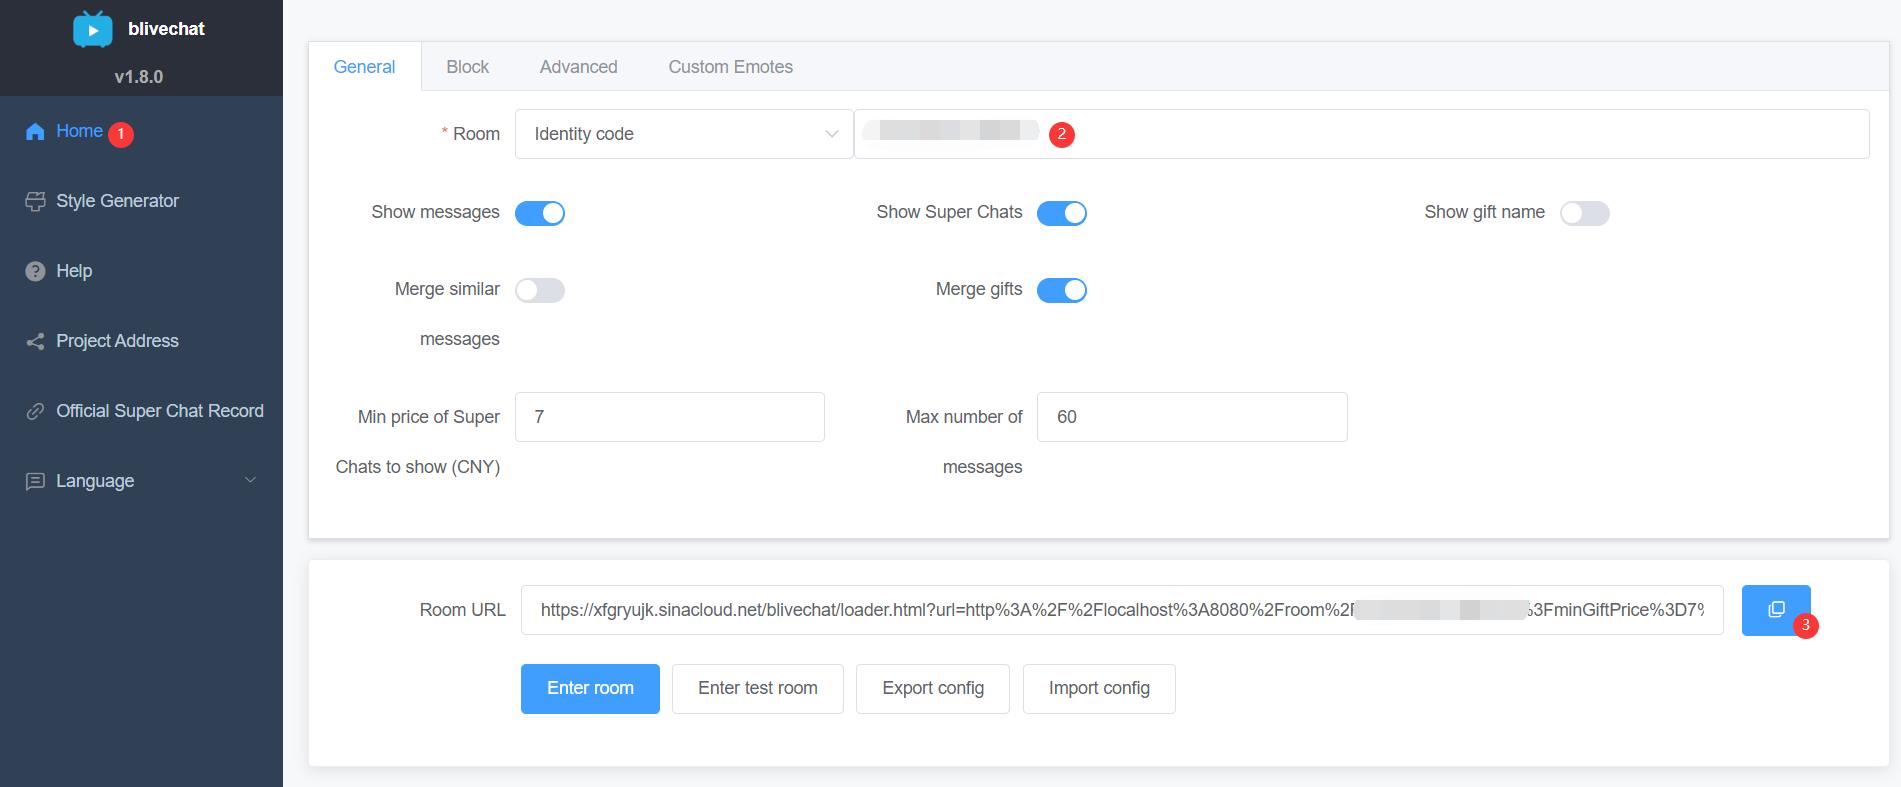
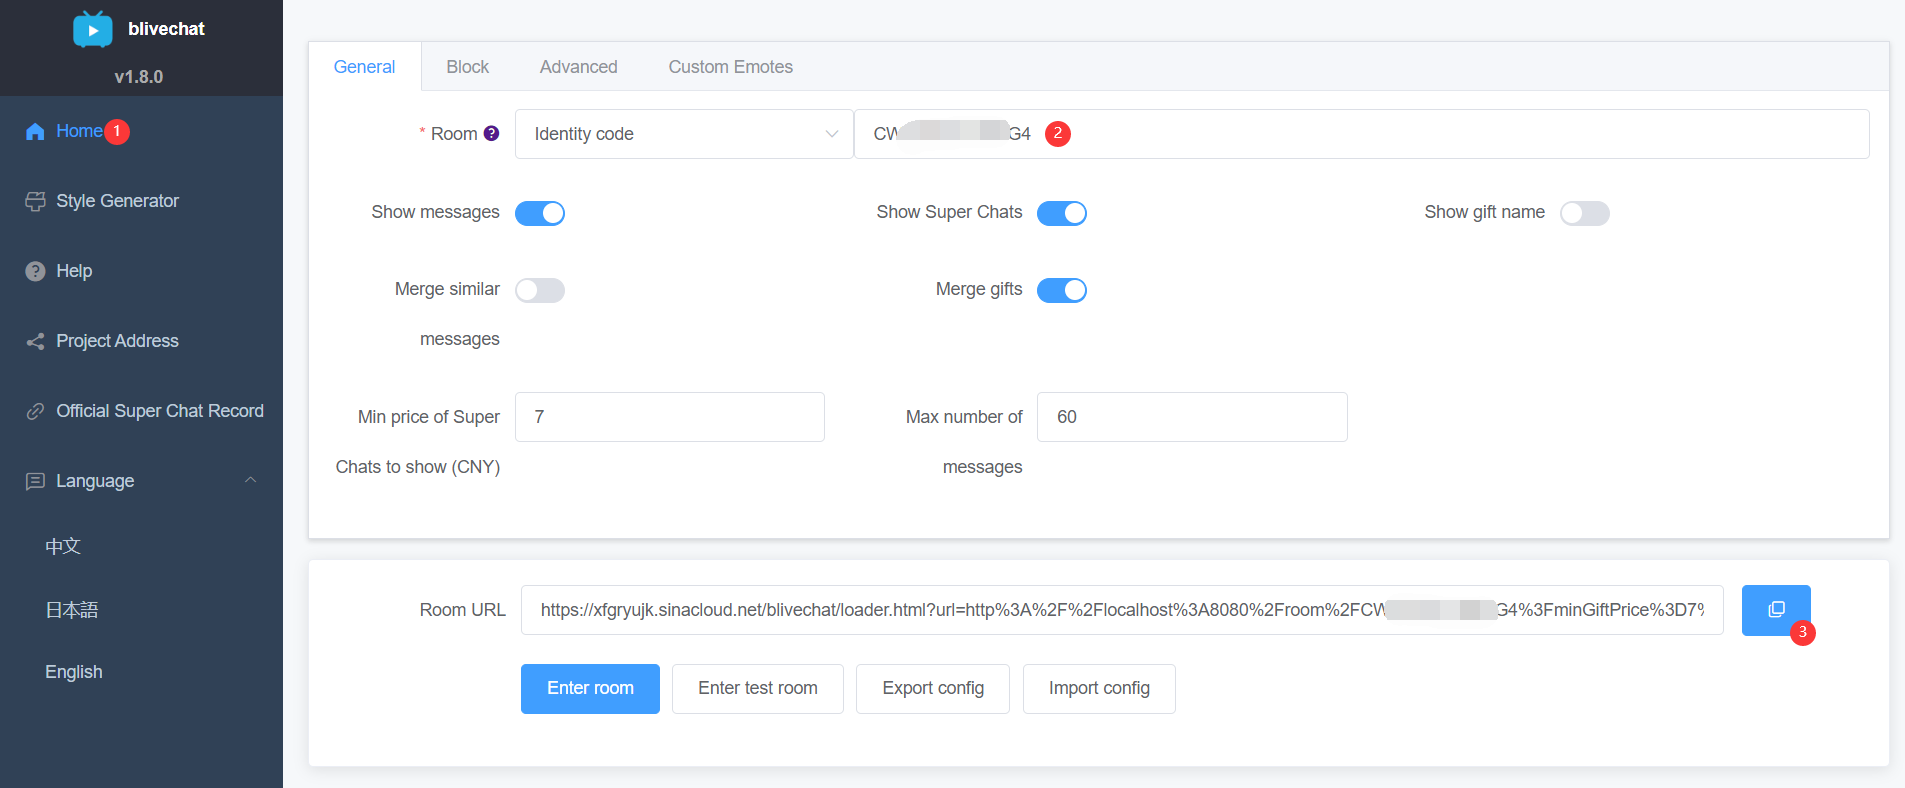
完善前端获取身份码的教程，做成弱智保姆软件

diff --git a/frontend/src/views/Home.vue b/frontend/src/views/Home.vue
@@ -4,7 +4,32 @@
       <el-form :model="form" ref="form" label-width="150px">
         <el-tabs type="border-card">
           <el-tab-pane :label="$t('home.general')">
-            <el-form-item :label="$t('home.room')" required :prop="form.roomKeyType === 1 ? 'roomId' : 'authCode'">
+            <el-form-item v-if="form.roomKeyType === 1"
+              :label="$t('home.room')" prop="roomId" :rules="[
+                { required: true, message: $t('home.roomIdEmpty') },
+                { type: 'integer', min: 1, message: $t('home.roomIdInteger') }
+              ]"
+            >
+              <el-row>
+                <el-col :span="6">
+                  <el-select v-model="form.roomKeyType" style="width: 100%">
+                    <el-option :label="$t('home.authCode')" :value="2"></el-option>
+                    <el-option :label="$t('home.roomId')" :value="1"></el-option>
+                  </el-select>
+                </el-col>
+                <el-col :span="18">
+                  <el-input v-model.number="form.roomId" type="number" min="1"></el-input>
+                </el-col>
+              </el-row>
+              <el-row style="color: red">{{ $t('home.useAuthCodeWarning') }}</el-row>
+            </el-form-item>
+
+            <el-form-item v-else-if="form.roomKeyType === 2"
+              :label="$t('home.room')" prop="authCode" :rules="[
+                { required: true, message: $t('home.authCodeEmpty') },
+                { pattern: AUTH_CODE_REG, message: $t('home.authCodeFormatError') }
+              ]"
+            >
               <template slot="label">{{ $t('home.room') }}
                 <router-link :to="{ name: 'help' }">
                   <i class="el-icon-question"></i>
@@ -18,21 +43,19 @@
                   </el-select>
                 </el-col>
                 <el-col :span="18">
-                  <el-input v-if="form.roomKeyType === 1"
-                    v-model.number="form.roomId" type="number" min="1" :rules="[
-                      {required: true, message: $t('home.roomIdEmpty'), trigger: 'blur'},
-                      {type: 'integer', min: 1, message: $t('home.roomIdInteger'), trigger: 'blur'}
-                    ]"
-                  ></el-input>
-                  <el-input v-else
-                    v-model.number="form.authCode" :rules="[
-                      {required: true, message: $t('home.authCodeEmpty'), trigger: 'blur'}
-                    ]"
-                  ></el-input>
+                  <el-tooltip placement="top-start">
+                    <div slot="content">
+                      <!-- 不知道为什么router-link获取不到$router，还是用el-link了，不过会有一次丑陋的刷新 -->
+                      <el-link
+                        type="primary" :href="$router.resolve({ name: 'help' }).href"
+                      >{{ $t('home.howToGetAuthCode') }}</el-link>
+                    </div>
+                    <el-input v-model.number="form.authCode"></el-input>
+                  </el-tooltip>
                 </el-col>
               </el-row>
-              <el-row v-if="form.roomKeyType === 1" style="color: red">{{ $t('home.useAuthCodeWarning') }}</el-row>
             </el-form-item>
+
             <el-row :gutter="20">
               <el-col :xs="24" :sm="8">
                 <el-form-item :label="$t('home.showDanmaku')">
@@ -198,6 +221,8 @@ export default {
   name: 'Home',
   data() {
     return {
+      AUTH_CODE_REG: /^[0-9A-Z]{12,14}$/,
+
       serverConfig: {
         enableTranslate: true,
         enableUploadFile: true,
@@ -294,7 +319,7 @@ export default {
       window.open(this.getRoomUrl(true), 'test room', 'menubar=0,location=0,scrollbars=0,toolbar=0,width=600,height=600')
     },
     getRoomUrl(isTestRoom) {
-      if (!isTestRoom && !this.roomKeyValue) {
+      if (!isTestRoom && !this.validateForm()) {
         return ''
       }
 
@@ -313,6 +338,15 @@ export default {
         resolved = this.$router.resolve({ name: 'room', params: { roomKeyValue: this.roomKeyValue }, query })
       }
       return `${window.location.protocol}//${window.location.host}${resolved.href}`
+    },
+    // 因为要用在计算属性里，所以不能用this.$refs.form.validate
+    validateForm() {
+      if (this.form.roomKeyType === 1) {
+        return this.roomKeyValue > 0
+      } else if (this.form.roomKeyType === 2) {
+        return this.AUTH_CODE_REG.test(this.roomKeyValue)
+      }
+      return true
     },
     copyUrl() {
       this.$refs.roomUrlInput.select()

diff --git a/frontend/src/lang/ja.js b/frontend/src/lang/ja.js
@@ -10,12 +10,14 @@ export default {
     roomIdEmpty: 'ルームのIDを空白にすることはできません',
     roomIdInteger: 'ルームは正の整数でなければなりません',
     authCodeEmpty: 'アイデンティティコードを空白にすることはできません',
+    authCodeFormatError: 'アイデンティティコードの形式エラー',
     useAuthCodeWarning: 'アイデンティティコードを優先的に使用してください',
 
     general: '常規',
     room: 'ルーム',
     roomId: 'ルームID',
     authCode: 'アイデンティティコード',
+    howToGetAuthCode: 'アイデンティティコードの取得方法',
     showDanmaku: 'コメントを表示する',
     showGift: 'スーパーチャットと新メンバーを表示する',
     showGiftName: 'ギフト名を表示する',
@@ -134,7 +136,8 @@ export default {
   },
   help: {
     help: 'ヘルプ',
-    p1: '1. ビリビリの生放送を始めるのウェブからアイデンティティコード（身份码）をこぴーする',
+    p1_1: '1. このウェブページからアイデンティティコード（身份码）をコピーして：',
+    p1_2: '。注意：アイデンティティコードは漏洩していない限り、更新しないでください。アイデンティティコードを更新すると、古いコードは無効になります',
     p2: '2. ホームページに先ほどコピーしたアイデンティティコードを入力して、ルームのURLをこぴーする',
     p3: '3. スタイルジェネレータでお好みのコメント様子を選び、出力したCSSをコピーする',
     p4: '4. OBSでブラウザを新規作成する',

diff --git a/frontend/src/lang/en.js b/frontend/src/lang/en.js
@@ -10,12 +10,14 @@ export default {
     roomIdEmpty: "Room ID can't be empty",
     roomIdInteger: 'Room ID must be positive integer',
     authCodeEmpty: "Identity code can't be empty",
+    authCodeFormatError: 'Identity code format error',
     useAuthCodeWarning: 'Please prioritize the identity code',
 
     general: 'General',
     room: 'Room',
     roomId: 'Room ID',
     authCode: 'Identity code',
+    howToGetAuthCode: 'How to get identity code',
     showDanmaku: 'Show messages',
     showGift: 'Show Super Chats',
     showGiftName: 'Show gift name',
@@ -134,7 +136,8 @@ export default {
   },
   help: {
     help: 'Help',
-    p1: '1. Copy the identity code (身份码) from the webpage where you start streaming',
+    p1_1: '1. Copy the identity code (身份码) from this webpage:',
+    p1_2: '. NOTE: DO NOT refresh the identity code, unless it is leaked. Once you refresh the identity code, the old one will be invalid',
     p2: '2. Enter the identity code into the room configuration on the home page. Copy the room URL',
     p3: '3. Generate styles with the style generator. Copy the CSS',
     p4: '4. Add browser source in OBS',

diff --git a/frontend/src/lang/zh.js b/frontend/src/lang/zh.js
@@ -10,12 +10,14 @@ export default {
     roomIdEmpty: '房间ID不能为空',
     roomIdInteger: '房间ID必须为正整数',
     authCodeEmpty: '身份码不能为空',
+    authCodeFormatError: '身份码格式错误',
     useAuthCodeWarning: '请优先使用身份码',
 
     general: '常规',
     room: '房间',
     roomId: '房间ID',
     authCode: '身份码',
+    howToGetAuthCode: '如何获取身份码',
     showDanmaku: '显示弹幕',
     showGift: '显示打赏和新舰长',
     showGiftName: '显示礼物名',
@@ -134,7 +136,8 @@ export default {
   },
   help: {
     help: '帮助',
-    p1: '1. 从开始直播的页面复制身份码',
+    p1_1: '1. 从这个页面复制身份码：',
+    p1_2: '。注意：不要刷新身份码，除非你的身份码泄露了，因为刷新身份码会使旧的身份码失效',
     p2: '2. 把身份码输入到首页的房间配置，复制房间URL',
     p3: '3. 使用样式生成器生成样式，复制CSS',
     p4: '4. 在OBS中添加浏览器源',

diff --git a/frontend/src/main.js b/frontend/src/main.js
@@ -2,7 +2,7 @@ import Vue from 'vue'
 import VueRouter from 'vue-router'
 import {
   Aside, Autocomplete, Badge, Button, ButtonGroup, Card, Col, ColorPicker, Container, Divider, Form, FormItem, Image,
-  Input, Main, Menu, MenuItem, Message, Option, OptionGroup, Radio, RadioGroup, Row, Select, Scrollbar,
+  Input, Link, Main, Menu, MenuItem, Message, Option, OptionGroup, Radio, RadioGroup, Row, Select, Scrollbar,
   Slider, Submenu, Switch, Table, TableColumn, TabPane, Tabs, Tooltip
 } from 'element-ui'
 import axios from 'axios'
@@ -34,6 +34,7 @@ Vue.use(Form)
 Vue.use(FormItem)
 Vue.use(Image)
 Vue.use(Input)
+Vue.use(Link)
 Vue.use(Main)
 Vue.use(Menu)
 Vue.use(MenuItem)

diff --git a/frontend/src/views/Help.vue b/frontend/src/views/Help.vue
@@ -1,7 +1,7 @@
 <template>
   <div>
     <h1>{{ $t('help.help') }}</h1>
-    <p>{{ $t('help.p1') }}</p>
+    <p>{{ $t('help.p1_1') }} <a href="https://play-live.bilibili.com/" target="_blank">https://play-live.bilibili.com/</a> {{ $t('help.p1_2') }}</p>
     <p class="img-container"><el-image fit="scale-down" src="/static/img/tutorial/tutorial-1.png"></el-image></p>
     <p>{{ $t('help.p2') }}</p>
     <p class="img-container large-img"><el-image fit="scale-down" src="/static/img/tutorial/tutorial-2.png"></el-image></p>
